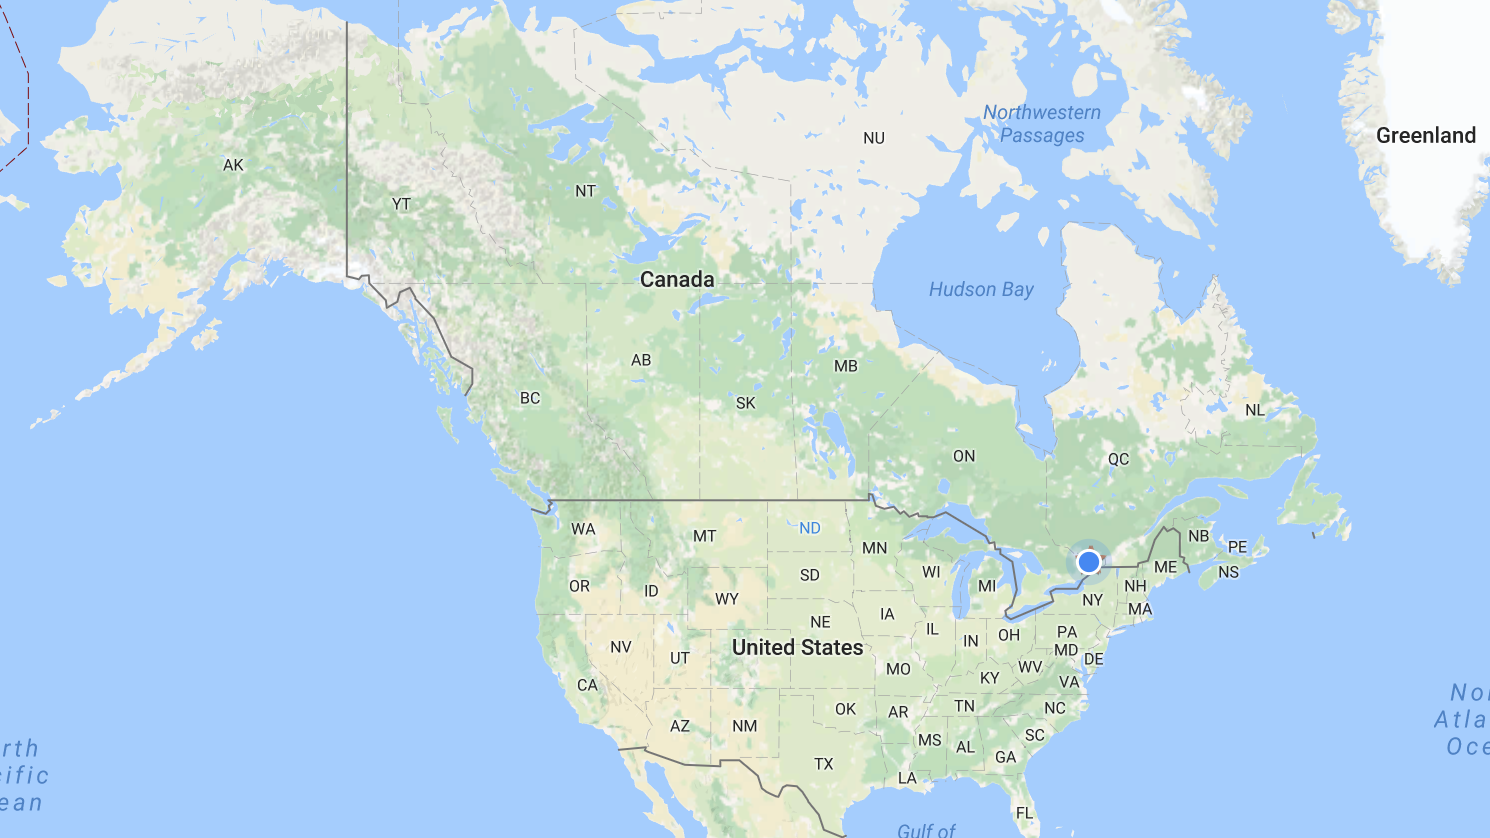
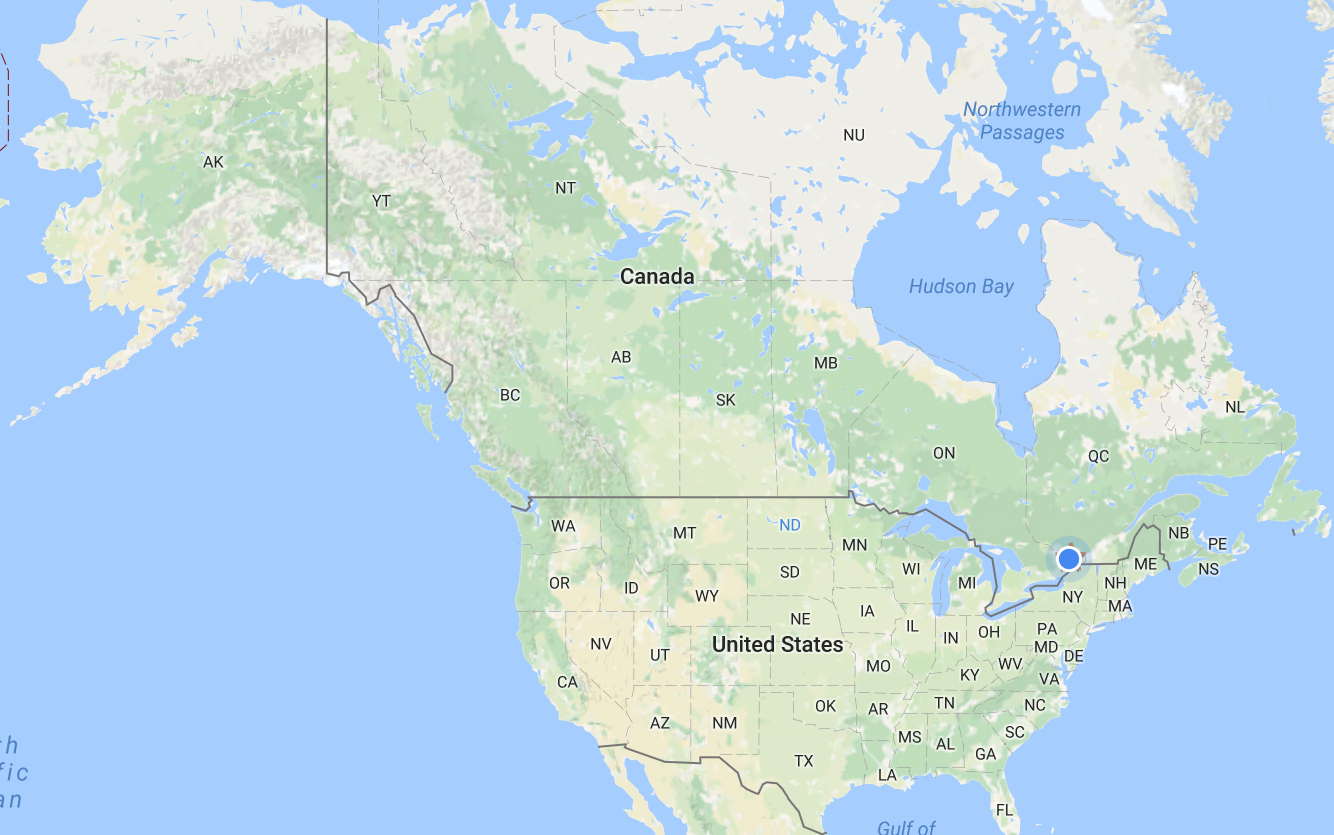
The map. That was tricky.
Centred map vertically, responsive.

diff --git a/css/main.css b/css/main.css
@@ -175,10 +175,14 @@ footer p {
 .map figure {
   margin: 0;
   position: relative;
+  height: 15em;
 }
 
 .map img {
-  width: 100%;
+  height: 100%;
+  position: absolute;
+  left: 50%;
+  transform: translateX(-50%);
 }
 
 .map figcaption {
@@ -311,6 +315,11 @@ footer p {
     bottom: 5em;
   }
 
+  .map figure {
+    overflow: hidden;
+    height: 20em;
+  }
+
   .points p {
     max-width: 400px;
     margin-left: auto;
@@ -327,6 +336,18 @@ footer p {
 
   .tour-img:nth-child(3) {
     display: inline;
+  }
+}
+
+@media only screen and (min-width: 33em) {
+
+  .map img {
+    height: auto;
+    width: 100%;
+    left: auto;
+    transform: translateX(0);
+    top: 50%;
+    transform: translateY(-50%);
   }
 }
 
@@ -389,6 +410,10 @@ footer p {
   .map figure {
     max-height: 400px;
     overflow: hidden;
+  }
+
+  .map img {
+    height: auto;
   }
 }
 
@@ -522,6 +547,10 @@ footer p {
 
   .link-card figure {
     margin: 1em;
+  }
+
+  .collections a:last-child {
+    margin-bottom: 1em;
   }
 
   .specials figure figcaption {
